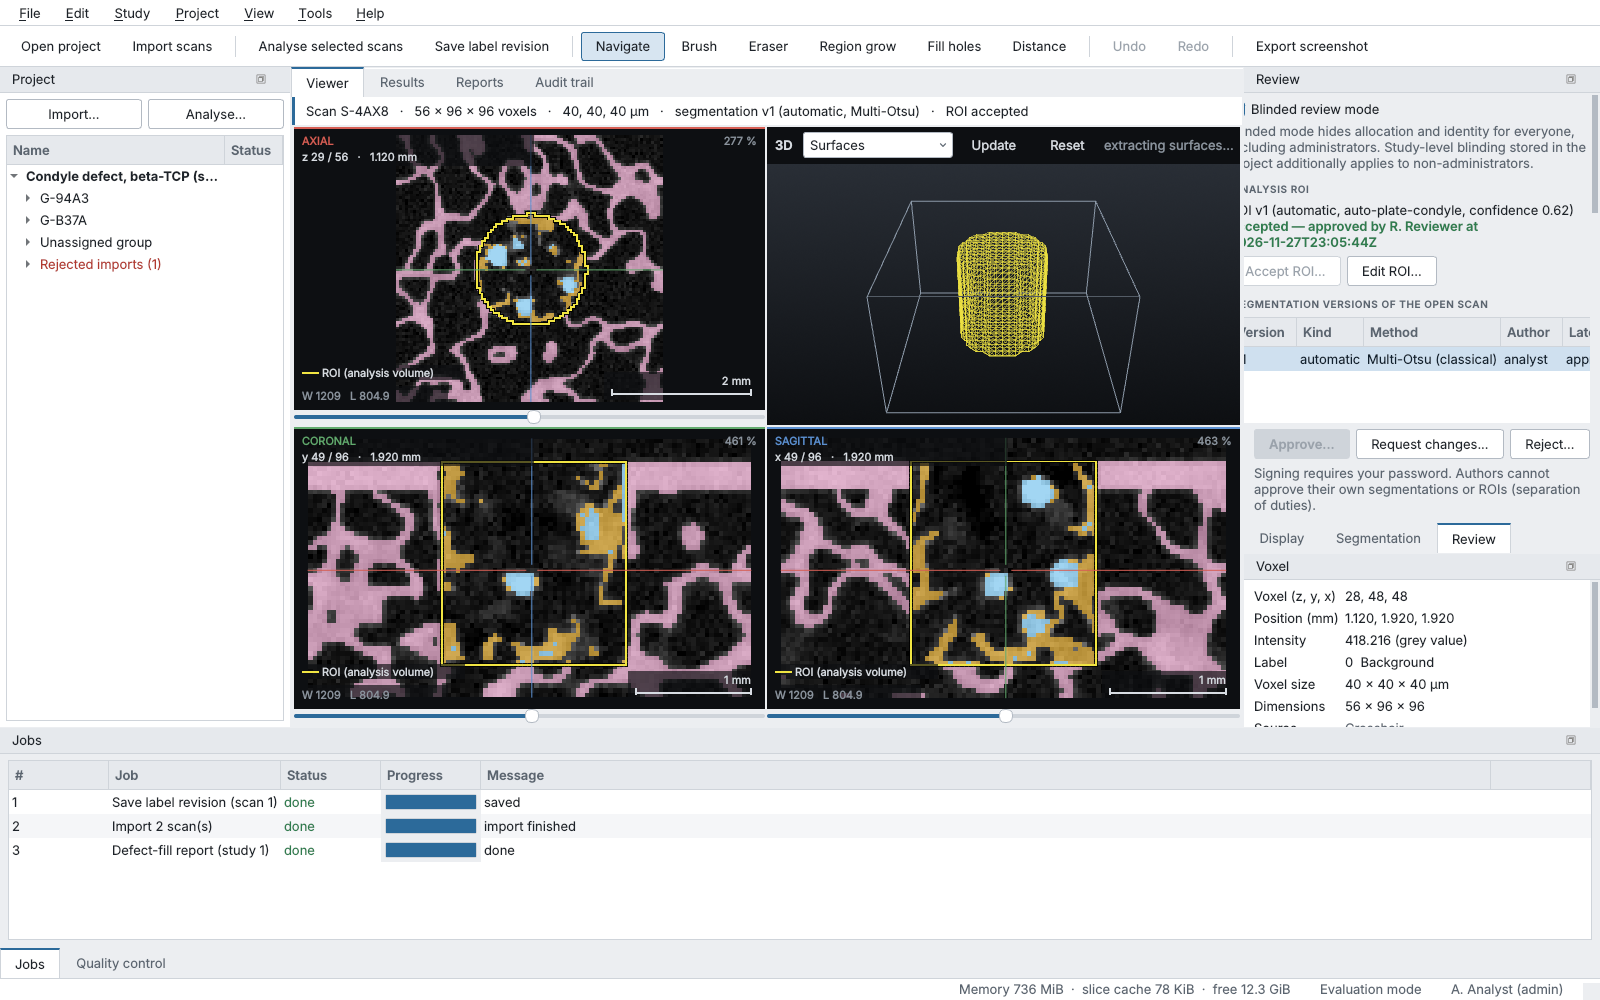
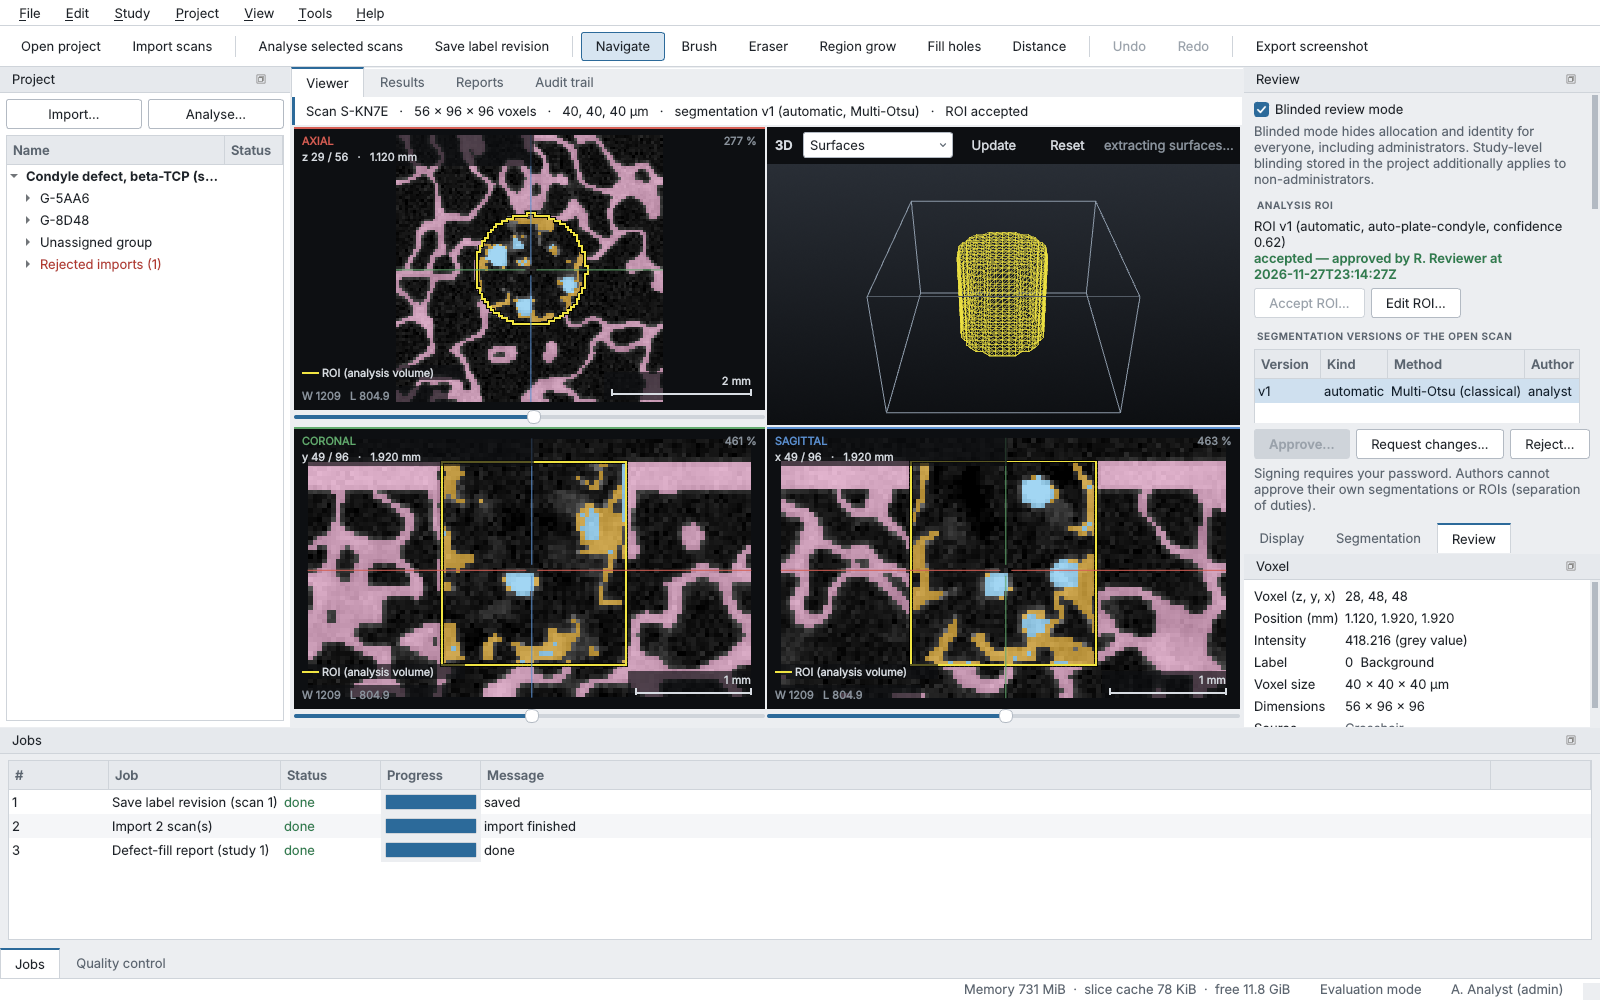
Desktop cycle-1 UX remediation: ROI display and acceptance, honest support states, synthetic-model labelling, full sign-off flow with signed PDF copies, blinded codes, role-aware actions, user administration, idle lock, audit export, accessibility and robustness fixes

diff --git a/osteoquant/desktop/main_window.py b/osteoquant/desktop/main_window.py
@@ -684,7 +684,7 @@ class MainWindow(QMainWindow):
 
     # ================================================================== studies / import
     def new_study(self):
-        if not self.project:
+        if not self.project or self._denied("write", "New study"):
             return None
         dlg = self._own(NewStudyDialog(self))
         if dlg.exec():
@@ -701,7 +701,7 @@ class MainWindow(QMainWindow):
 
     def add_group(self, study_id=None):
         sid = study_id or self.tree.current_study_id()
-        if not self.project or sid is None:
+        if not self.project or sid is None or self._denied("write", "Add group"):
             return
         name, ok = QInputDialog.getText(self, "Add group", "Group name (e.g. treatment arm):")
         if ok and name.strip():
@@ -711,8 +711,15 @@ class MainWindow(QMainWindow):
                 QMessageBox.warning(self, "Not permitted", str(e))
             self.refresh_tree()
 
+    def _denied(self, perm: str, title: str) -> bool:
+        """Explain (instead of failing later) when the signed-in role lacks ``perm``."""
+        if self.project and not self.project.can(perm):
+            QMessageBox.information(self, title, self.project.why_not(perm))
+            return True
+        return False
+
     def import_scans(self, study_id=None, paths=()):
-        if not self.project:
+        if not self.project or self._denied("write", "Import scans"):
             return None
         if not self.project.store.list_studies(self.project.user):
             if self.new_study() is None:
@@ -872,7 +879,9 @@ class MainWindow(QMainWindow):
         if st.editor is None or not st.editor.modified or self.current_scan_id is None:
             return None
         if reason is None:
-            dlg = self._own(SaveRevisionDialog(st.editor.change_summary(), st.segmentation["version"], self))
+            import numpy as _np
+            dlg = self._own(SaveRevisionDialog(st.editor.change_summary(), st.segmentation["version"], self,
+                                               float(_np.prod(st.spacing)) / 1e9))
             if not dlg.exec():
                 return None
             reason = dlg.reason.toPlainText().strip()
@@ -902,7 +911,7 @@ class MainWindow(QMainWindow):
 
     # ================================================================== analysis / reports / review
     def analyze_selected(self, scan_ids=None, config=None, use_saved_roi=None):
-        if not self.project:
+        if not self.project or self._denied("write", "Analyse"):
             return []
         ids = scan_ids or self.tree.selected_scan_ids() or ([self.current_scan_id] if self.current_scan_id else [])
         if not ids:
@@ -1121,9 +1130,6 @@ class MainWindow(QMainWindow):
         elif key == "add_group":
             self.add_group(node.get("id"))
         elif key == "analyze":
-            if self.project and not self.project.can("write"):
-                QMessageBox.information(self, "Analyse", self.project.why_not("write"))
-                return
             self.analyze_selected()
         elif key == "report":
             self.generate_report(node.get("id"))

diff --git a/osteoquant/desktop/dialogs.py b/osteoquant/desktop/dialogs.py
@@ -152,7 +152,7 @@ class NewStudyDialog(_Dialog):
 
 class AnalysisDialog(_Dialog):
     def __init__(self, n_scans: int, defect_model: str = "condyle", parent=None):
-        super().__init__("Run DefectFill analysis", parent, 480)
+        super().__init__("Run defect-fill analysis", parent, 480)
         self.lay.addWidget(muted(f"{n_scans} scan(s) selected. Each scan runs as a background job; you can keep "
                                  "working and cancel from the Jobs panel."))
         f = QFormLayout()
@@ -260,17 +260,19 @@ class RoiDialog(_Dialog):
 
 
 class SaveRevisionDialog(_Dialog):
-    def __init__(self, summary: dict, base_version: int, parent=None):
+    def __init__(self, summary: dict, base_version: int, parent=None, voxel_mm3: float | None = None):
         super().__init__("Save label revision", parent, 480)
         self.lay.addWidget(muted(f"The edited labels are stored as a new segmentation version derived from v{base_version}. "
                                  "Endpoints are recomputed with the same ROI. The audit trail records your identity, "
                                  "the reason and the voxel changes below."))
-        t = make_table(["Class", "Voxel change"])
+        t = make_table(["Class", "Voxel change"] + (["Volume change (mm³)"] if voxel_mm3 else []))
         for k, v in summary.items():
             r = t.rowCount()
             t.insertRow(r)
             t.setItem(r, 0, ro_item(k.replace("_", " ")))
             t.setItem(r, 1, ro_item(f"{v:+,}", Qt.AlignRight | Qt.AlignVCenter))
+            if voxel_mm3:
+                t.setItem(r, 2, ro_item(f"{v * voxel_mm3:+.4f}", Qt.AlignRight | Qt.AlignVCenter))
         t.setMaximumHeight(140)
         self.lay.addWidget(t)
         self.reason = QPlainTextEdit()

diff --git a/osteoquant/desktop/screenshots.py b/osteoquant/desktop/screenshots.py
@@ -9,6 +9,8 @@ import tempfile
 import time
 from pathlib import Path
 
+import numpy as np
+
 
 def _settle(app, n=8):
     for _ in range(n):
@@ -84,7 +86,8 @@ def capture_all(out_dir, themes=("light", "dark")) -> list[str]:
     w.workspace.views[0]._hover = (50.0, 30.0)
     _settle(app)
     save(w, "03_segmentation_editing.png")
-    dlg = w._own(SaveRevisionDialog(st.editor.change_summary(), st.segmentation["version"], w))
+    dlg = w._own(SaveRevisionDialog(st.editor.change_summary(), st.segmentation["version"], w,
+                                    float(np.prod(st.spacing)) / 1e9))
     dlg.reason.setPlainText("Graft particle misclassified as new bone at the defect margin")
     dlg.show()
     _settle(app)
@@ -131,6 +134,7 @@ def capture_all(out_dir, themes=("light", "dark")) -> list[str]:
         S.sign_review(rev, REVIEWER_PASSWORD, "segmentation", segs[-1]["id"], "approved",
                       "Reviewed the segmentation and approve it for reporting")
     w.review.refresh()
+    w._update_viewer_info()
     w.d_review.raise_()
     _settle(app)
     save(w, "17_review_roi_accepted.png")

diff --git a/osteoquant/desktop/panels.py b/osteoquant/desktop/panels.py
@@ -16,6 +16,7 @@ from .viewer_state import CLASS_NAMES, EDIT_LABELS, PALETTES, ViewerState
 def section(text: str) -> QLabel:
     lb = QLabel(text)
     lb.setProperty("role", "section")
+    lb.setWordWrap(True)            # never forces a dock wider than it is (no clipped content)
     return lb
 
 
@@ -399,7 +400,7 @@ class SegmentationPanel(QWidget):
             for x in self.tool_buttons.values():
                 x.setChecked(False)
             self.tool_group.setExclusive(True)
-        if (self.state.read_only_reason != "") != self.badge.isVisible():
+        if (self.state.read_only_reason != "") == self.badge.isHidden():
             self._on_scan()
 
     def _interpolate(self, axis):

diff --git a/tests/desktop/test_admin_lock_audit.py b/tests/desktop/test_admin_lock_audit.py
@@ -1,7 +1,6 @@
 """Quality-review desktop gaps: user administration, idle lock, audit export (dossier §11 D-2, D-4, D-8)."""
 import csv
 import json
-import time
 
 import pytest
 

diff --git a/docs/reviews/cycle1/REVIEW_UX.md b/docs/reviews/cycle1/REVIEW_UX.md
@@ -118,3 +118,53 @@ Line numbers refer to the files as they were during this review.
    - UX-20: per-group material;
    - UX-27: focus ring and shortcuts.
 4. Robustness: UX-25 (heavy work on the UI thread), UX-26 (cancel and close) and UX-10 (role-gated actions).
+
+## Response (desktop engineering, cycle 2)
+
+Tests: `tests/desktop/test_review_fixes.py` (one or more per High finding), `test_admin_lock_audit.py` (quality-review gaps), `test_viewer_ux.py` (Medium/Low). Screenshots re-captured with `python -m osteoquant.desktop --screenshots docs/screenshots/desktop` (`01`–`23`).
+
+| ID | Status | Evidence |
+|---|---|---|
+| UX-01 | fixed | ROI mask of the displayed version (`labels/roi_v{n}`, else `roi_current`) loaded with the labels and drawn as a yellow voxel-edge outline with a key in every slice view; yellow wireframe in 3D; toggle in Display panel, *View* menu and key R. `slice_view.py::_draw_roi`, `view3d.py::roi_surface`. `test_ux01_roi_drawn_in_slice_views_and_3d`; `02_viewer_light.png`. |
+| UX-02 | fixed | Review panel *Analysis ROI* section with **Accept ROI...** (electronic signature, `Store.review(object_type="roi")` records the definition SHA-256; creator cannot accept) and **Edit ROI...**. An accepted ROI clears the flag; ROI state is its own Results column. `test_ux02_*`; `16_sign_accept_roi_dialog.png`, `17_review_roi_accepted.png`. |
+| UX-03 | fixed | `support.endpoint_value` is the single rule: *not supported* never yields a number. Used by Results, CSV export (empty value + reasons columns), Review detail and the report bundle (`services._enforce_support`: value removed, reason added). `test_ux03_*`. |
+| UX-04 | fixed | QC *review*/*unsuitable* flag every endpoint with the named checks; QC is a separate column. `test_ux04_qc_review_is_never_green`. |
+| UX-05 | fixed | "SYNTHETIC-TRAINED — research only" in the model list and as a chip in the Analysis dialog, viewer info bar, Results *Method* column and Review panel; provenance shown as words, no licence tag. `services.segmentation_method_info`. `test_ux05_*`; `21_analysis_dialog.png`. |
+| UX-06 | fixed | Detail pane for the selected version: parent, editor, time, reason, operations, Δ voxels and Δ mm³ per class, every endpoint parent → this version; *Highlight changes vs parent* draws changed voxels in magenta. `services.version_detail`, `ViewerState.set_compare`. `test_ux06_*`; `15_review_what_changed.png`. |
+| UX-07 | fixed | Reports tab: Approve / Request changes / Reject with signature role (Scientific reviewer / Study director). Approval blocked while a reported segmentation is unapproved or the report predates the approvals. Each signature renders a signed copy whose signature rows are filled from the recorded approvals (role, name, meaning, decision, time) and which names the original PDF's SHA-256. `test_ux07_08_*`; `18_report_signoff.png`. |
+| UX-08 | fixed | `study/db.py` message now names the object (`SELF_APPROVAL_MESSAGES`; report: "you cannot approve a report you generated ..."); Approve disabled with that tooltip for the report author and for a segmentation's author. `test_ux07_08_*`. |
+| UX-09 | fixed | Random per-study codes (`desktop_blind_codes`: `Scan S-7K3Q`, `Animal A-P7BK`), tree sorted by code; masking of file names, paths, animal IDs, acquisition metadata and scan IDs in the audit view/export (`blinding.Masker`); blinded reports (codes, re-rendered figures, masked audit excerpt); preview of non-blinded reports hidden in blinded mode; info bar, QC banner, tooltips, rejected imports masked. `test_ux09_*`; `10_review_blinded.png`, `19_audit_blinded.png`. |
+| UX-10 | fixed | `MainWindow.apply_role_gating`: write actions (import, analyse, ROI, edit tools, save) disabled with "Your role (X) cannot ... Requires: ..."; read-only badge in the Segmentation panel; sign buttons disabled for roles without `review`. `test_ux10_*`; `23_reviewer_read_only.png`. |
+| UX-11 | partial | Detail pane under the Results table (reasons per endpoint, de-duplicated across the "advisor:" prefix), "reasons" columns in CSV. Advisor wording itself is unchanged (advisor code is out of scope). |
+| UX-12 | deferred | Distinct n/s, n/c, — tokens across UI/CSV/PDF need a report change outside this scope. UI distinguishes *not analysed* (Support column) from *not measured* (with reason). |
+| UX-13 | partial | Added QC, ROI, Method and Review columns. Material column and filtering deferred. |
+| UX-14 | deferred | Unit convention of the PDF/CSV report is outside the desktop scope; desktop headers state the unit (%). |
+| UX-15 | fixed | History, unsaved-change summary and *Save as new revision* pinned below the scroll area of the Segmentation panel. `03_segmentation_editing.png`. |
+| UX-16 | partial | Slice slider under each view, Home/End, distance tool (M), outline-only overlay. Angle/area/profile tools, linked zoom, cine, brush/class keys and uncertainty map display deferred. `test_slice_slider_and_keys`, `test_presets_measurement_palette_outline`. |
+| UX-17 | partial | Presets Bone, Graft (dense mineral), Soft tissue, Auto, Full range (same histogram rule for every scan). Study-level saved windows and preset keys deferred. |
+| UX-18 | partial | Edit ROI reachable from the Review panel; after saving the user is offered to re-analyse. Preview/handles and oblique axis deferred. |
+| UX-19 | fixed | Reloading the same scan (after save or analysis) keeps crosshair, window/level, zoom/pan and 3D camera. `test_view_state_kept_across_save`. |
+| UX-20 | deferred | Per-group material and batch summary. |
+| UX-21 | fixed | *Graft is brighter* enabled and ticked only for radiopaque materials. |
+| UX-22 | fixed | Spacing fields start empty (z/y/x, optional isotropic); *Apply and confirm* enabled only after typing. `test_spacing_is_never_prefilled`. |
+| UX-23 | partial | `messages.friendly`: plain sentences in Jobs, import results, sign dialog and message boxes (technical text under Details); *Generate report* disabled without analysed scans. Listing skipped non-volume files deferred. `test_friendly_error_messages`. |
+| UX-24 | partial | Results CSV starts with the evaluation notice in evaluation mode. Screenshot stamp and tab banner deferred. |
+| UX-25 | partial | Labels, ROI mask and parent labels load on a worker thread (`services.load_scan_layers`). Labels are still held fully in memory for editing; the save copy is on the GUI thread. |
+| UX-26 | partial | Close cancels jobs and waits ≤3 s; the store closes when the pool is idle; job records follow their own project. Cancellation granularity inside the library is unchanged. `test_close_with_running_job_returns_within_3s`. |
+| UX-27 | fixed | Global `outline: 0` removed; accent focus border on buttons, views, slice views; tooltip H fixed; tool keys scoped to the viewer (`WidgetWithChildrenShortcut`); *Help > Keyboard shortcuts* (F1). `test_accessibility_*`, `test_not_measured_rendering_and_shortcut_scope`. |
+| UX-28 | fixed | *not measured* in `text_muted` italic (≥5.2:1); light `warn` #9a5f0c, dark `bad` #ec7f73; all status colours ≥4.5:1 on both row colours (tested). |
+| UX-29 | fixed | Colour-blind-safe palette (blue / orange / white / black), outline mode, ⚠/✖ prefixes for flagged/not supported. Crosshair line colours unchanged. |
+| UX-30 | fixed | Sign dialog: wrapped label, readable object ("Approve segmentation v2 of Scan 1 - ..."), object-specific meanings. |
+| UX-31 | partial | QC panel shown only on the Viewer tab. Dock state persistence deferred. |
+| UX-32 | deferred | Middle elision / tooltips for all truncated fields. |
+| UX-33 | fixed | Display panel cleared on unload; Jobs list cleared per project. |
+| UX-34 | partial | Δ mm³ in the Save revision dialog and Review detail. Resuming the interrupted action after save deferred. |
+| UX-35 | fixed | Fingerprint selectable, with *Copy*. |
+| UX-36 | deferred | Report footer/CI wording (report/statistics scope). |
+| UX-37 | deferred | Import metadata table polish. |
+| UX-38 | deferred | Dialog lifetime is managed by `MainWindow._own`; no per-window style sheets yet. |
+| UX-39 | fixed | Results sorted ascending by scan. |
+| UX-40 | fixed | "Generate defect-fill report", "Run defect-fill analysis". |
+| Dossier §11 D-2 | fixed | *Project > Users* (admin): add user with role (analyst / reviewer / study director / admin), deactivate/reactivate, reset password; all through the Store API and audited. `test_user_admin_add_deactivate_reset_audited`; `20_users.png`. |
+| Dossier §11 D-8 | fixed (idle lock) | Idle lock (default 15 min, admin-configurable, audited); unlock re-checks the password through `Store.reauthenticate` (lockout applies); *Lock now* Ctrl+L. Second-instance detection deferred. `test_idle_lock_*`; `22_idle_lock.png`. |
+| Dossier §11 D-4 | partial | Audit export to CSV/JSON with chain-verification result (`services.export_audit`), audited, masked in blinded mode. Anchor/backup/archive export deferred. `test_audit_export_*`. |

diff --git a/docs/desktop/ARCHITECTURE.md b/docs/desktop/ARCHITECTURE.md
@@ -12,7 +12,10 @@ project folder can be opened by either front end.
 | `app.py`, `__main__.py` | entry | argument parsing, `--selftest`, `--screenshots`, theme, exception hook |
 | `project.py` | model | project folder (marker + SQLite `Store` + data dir), sign-in, re-authentication, study tree, import log |
 | `services.py` | service | every call into the library: probe/import/QC, analysis, manual ROI, label revisions, review sign-off, reports, model discovery |
-| `support.py` | service | `measurement_support(result) -> dict`: per-endpoint *supported / flagged / not supported* |
+| `support.py` | service | `measurement_support(result, roi_accepted) -> dict`: per-endpoint *supported / flagged / not supported*; `endpoint_value` (the single "no number when not supported" rule used by every view and export) |
+| `blinding.py` | service | `Masker`: masks file names, animal IDs, acquisition metadata and scan IDs in free text (audit details, report bundles) |
+| `messages.py` | service | `friendly(error)`: plain-language error sentences; technical text kept under *Details* |
+| `lock.py` | widgets | `IdleWatcher` (application event filter) and the lock page |
 | `editing.py` | model | `LabelEditor` operations and `SparseDiff` (compressed sparse undo records) |
 | `undo.py` | Qt model | `QUndoStack` integration (`LabelEditCommand`, `EditHistory`) |
 | `volume_source.py` | model | slice-lazy image access (`ZarrSource`, `ArraySource`) with a byte-bounded LRU cache |
@@ -26,8 +29,8 @@ project folder can be opened by either front end.
 | `import_wizard.py` | model + widgets | `ImportModel` (all rules) and the four-page `ImportWizard` |
 | `results_view.py` | model + widget | per-scan endpoint table (`build_rows`, `ResultsModel`), CSV export |
 | `reports_view.py` | widget | report generation, QtPdf page-by-page preview, export, sign-off |
-| `review_audit.py` | widgets | review/sign-off panel with blinded mode; audit-trail viewer with chain verification |
-| `dialogs.py` | widgets | new project, sign-in, study, analysis settings, ROI, revision reason, signature, licence, About |
+| `review_audit.py` | widgets | review panel (ROI acceptance, versions, what-changed detail, compare overlay, sign-off) with blinded mode; audit-trail viewer with masking, export and chain verification |
+| `dialogs.py` | widgets | new project, sign-in, study, analysis settings, ROI, revision reason, signature (with signature role), users, idle lock, keyboard shortcuts, licence, About |
 | `main_window.py` | widget | assembles everything: start page, tabs (Viewer, Results, Reports, Audit trail), docks, menus, status bar |
 | `selftest.py`, `screenshots.py`, `demo.py` | tooling | headless end-to-end check; documentation screenshots; synthetic phantom data |
 
@@ -53,9 +56,18 @@ those classes and render their state.
 | users, RBAC, studies, reviews | `osteoquant.study.db.Store` |
 | audit trail | `osteoquant.audit.AuditLog` (hash chain, `verify_chain`) |
 
-One library change was made for the desktop, and it is additive: `report.build_pdf` gained an
-optional `watermark` argument. Nothing else in `study/`, `report/` or `audit/` changed; the
-desktop's own tables (`desktop_import_log`, `desktop_settings`, `desktop_timing_events`) are
+Library changes made for the desktop, all additive:
+
+* `report.build_pdf` gained an optional `watermark` argument and prints an optional
+  `bundle["signature_note"]` under the sign-off table (signed copies).
+* `study.db`: a `study_director` role (same permissions as `reviewer`; recorded so report
+  signatures can be attributed), `Store.reset_password` (policy-checked, clears the lockout, ends
+  sessions, audited), `Store.review` accepts `object_type="roi"` (records the ROI definition hash;
+  the ROI's creator cannot accept it), and self-approval messages that name the object type
+  (`SELF_APPROVAL_MESSAGES`).
+
+The desktop post-processes the report bundle (`services._enforce_support`, `_blind_bundle`,
+`_report_signature_rows`) instead of changing `api/bundle.py`. The desktop's own tables are
 created by desktop code with `CREATE TABLE IF NOT EXISTS`.
 
 ## Data flow
@@ -80,6 +92,12 @@ created by desktop code with `CREATE TABLE IF NOT EXISTS`.
 ## Threading model
 
 * The GUI thread owns all widgets, VTK render windows and the `ViewerState`.
+* Opening a scan reads the label volume, the ROI mask and (for *compare with parent*) the parent
+  labels on a single loader thread (`services.load_scan_layers`); the GUI thread keeps repainting
+  and processing jobs and timers, with user input held back until the layers are in.
+* Each job remembers the project it was submitted for; its terminal record goes to that project
+  even after a switch. Closing cancels all jobs and waits at most 3 s; if a library stage is
+  still running, the project's store is closed when the pool becomes idle.
 * Long operations (import + QC, analysis, label-revision save with endpoint recomputation,
   reports) run as `JobManager` jobs on a `QThreadPool` (2 threads). A job is a plain function
   `fn(ctx)`; `ctx.progress(frac, msg)` publishes progress through a Qt signal (queued to the GUI
@@ -185,3 +203,25 @@ active seconds) plus a raw `*_events.csv`. Enabling/disabling and exports are au
 `desktop_import_log` (id, study_id, source, status, reason, scan_id, user_id, details,
 created): every import attempt including rejected and user-excluded sources, shown under
 *Rejected imports* in the project tree.
+
+```sql
+CREATE TABLE desktop_blind_codes (object_type TEXT, object_id INTEGER, study_id INTEGER, code TEXT,
+  created TEXT, PRIMARY KEY (object_type, object_id), UNIQUE (study_id, object_type, code));
+  -- random codes ('S-7K3Q', 'A-P7BK') for scans and animals in blinded review mode
+CREATE TABLE desktop_review_meta (review_id INTEGER PRIMARY KEY, signature_role TEXT);
+  -- 'reviewer' | 'study_director' chosen when signing (also in the audit trail: review.signature_role)
+CREATE TABLE desktop_report_meta (report_id INTEGER PRIMARY KEY, blinded INTEGER, bundle_path TEXT,
+  signed_pdf TEXT, signed_sha256 TEXT);
+  -- stored bundle JSON (to render the signed copy), blinded flag, signed copy and its hash
+```
+
+`desktop_settings` also holds `idle_lock_minutes` (default 15; changed by administrators,
+audited as `settings.idle_lock`).
+
+## Sign-off model
+
+| Object | Signed by | Recorded |
+|---|---|---|
+| ROI (`roi`) | reviewer / study director / admin, not its creator | `review.approved` with the ROI definition SHA-256; clears the "automatic ROI not yet accepted" flag |
+| Segmentation | reviewer / study director / admin, not its author | `review.*` with the labels SHA-256 |
+| Report | reviewer or study director (signature role chosen), not its author; *approve* only when every reported segmentation is approved and the report was generated after that | `review.*` + `review.signature_role`; a signed copy (`report{N}_signed.pdf`) is rendered from the stored bundle with the signature rows filled; the original PDF is unchanged |
